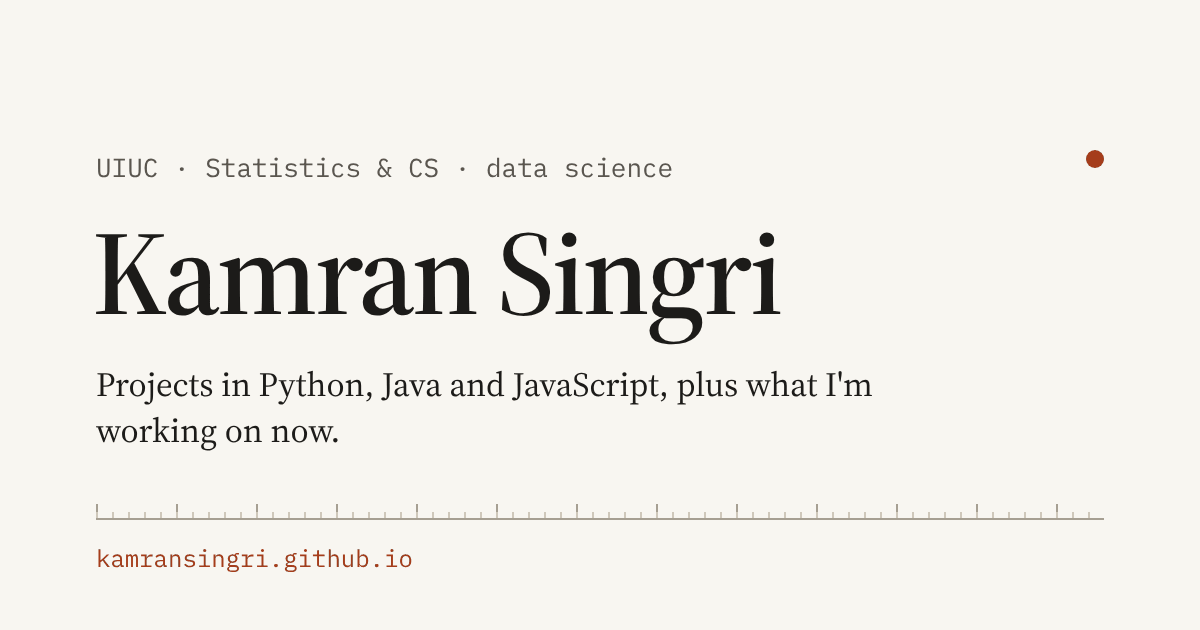
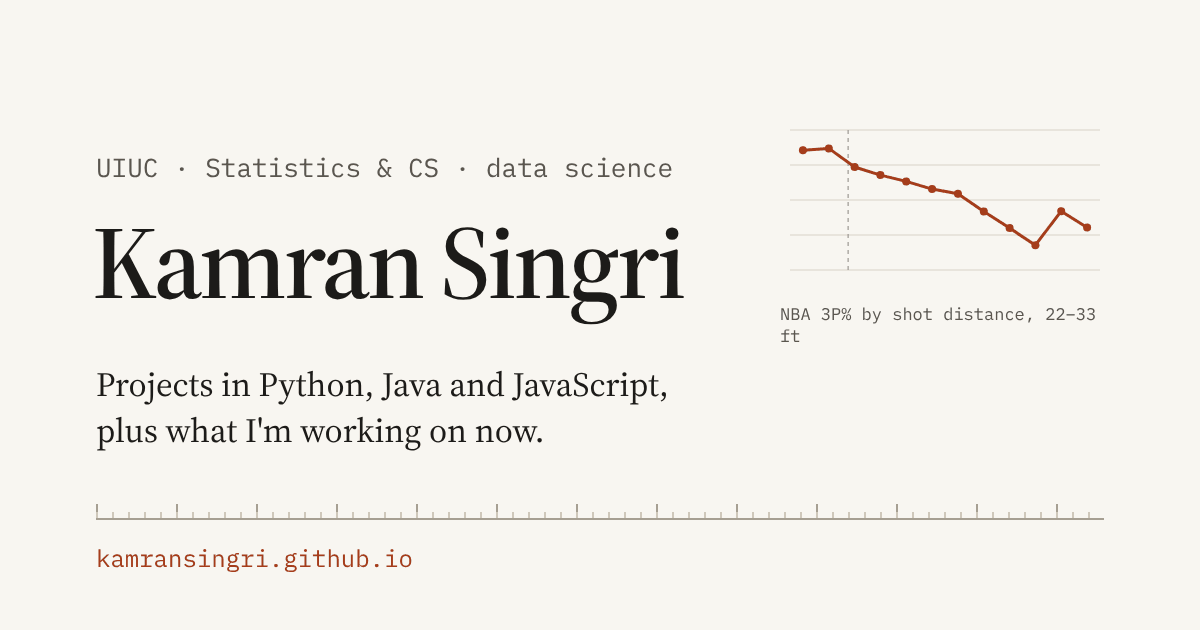
Polish 2: OG image with a sparkline drawn from the real NBA data
Claude-Session: https://claude.ai/code/session_01EJbYJCPg7MyVZ8EQyg9Bhm

diff --git a/tools/og.html b/tools/og.html
@@ -3,11 +3,11 @@
 @font-face{font-family:M;src:url(../assets/fonts/plex-mono-400.woff2)}
 html,body{margin:0}body{width:1200px;height:630px;background:#f8f6f1;color:#1c1b19;font-family:S;position:relative;overflow:hidden}
 .k{font-family:M;font-size:26px;color:#5b564e;position:absolute;left:96px;top:150px}
-h1{position:absolute;left:92px;top:190px;margin:0;font-size:120px;font-weight:600;letter-spacing:-3px}
-.l{position:absolute;left:96px;top:362px;font-size:34px;max-width:860px;line-height:1.35}
+h1{position:absolute;left:92px;top:190px;margin:0;font-size:104px;font-weight:600;letter-spacing:-3px}
+.l{position:absolute;left:96px;top:362px;font-size:34px;max-width:620px;line-height:1.35}
 .axis{position:absolute;left:96px;right:96px;bottom:110px;height:16px;
 background:linear-gradient(#a69f92,#a69f92) left bottom/100% 2px no-repeat,repeating-linear-gradient(to right,#cfc8bb 0 2px,transparent 2px 16px) left bottom/100% 8px no-repeat,repeating-linear-gradient(to right,#a69f92 0 2px,transparent 2px 80px) left bottom/100% 16px no-repeat}
 .u{position:absolute;left:96px;bottom:56px;font-family:M;font-size:24px;color:#a53d1b}
-.dot{position:absolute;width:18px;height:18px;border-radius:50%;background:#a53d1b;right:96px;top:150px}
-</style></head><body><div class="dot"></div><div class="k">UIUC · Statistics &amp; CS · data science</div><h1>Kamran Singri</h1>
+.chart{position:absolute;right:90px;top:120px;width:330px}.chart p{font-family:M;font-size:17px;color:#5b564e;margin:8px 0 0}
+</style></head><body><div class="chart"><svg class="spark" viewBox="0 0 330 170" width="330" height="170"><line x1="10" x2="320" y1="150.0" y2="150.0" stroke="#d8d2c7"/><line x1="10" x2="320" y1="115.0" y2="115.0" stroke="#d8d2c7"/><line x1="10" x2="320" y1="80.0" y2="80.0" stroke="#d8d2c7"/><line x1="10" x2="320" y1="45.0" y2="45.0" stroke="#d8d2c7"/><line x1="10" x2="320" y1="10.0" y2="10.0" stroke="#d8d2c7"/><line x1="68.1" x2="68.1" y1="10" y2="150" stroke="#8a8377" stroke-dasharray="4 4"/><path d="M22.9,30.3L48.8,28.4L74.6,47.0L100.4,55.1L126.2,61.4L152.1,69.1L177.9,73.8L203.8,91.5L229.6,108.1L255.4,125.2L281.2,91.2L307.1,107.5" fill="none" stroke="#a53d1b" stroke-width="3" stroke-linejoin="round"/><circle cx="22.9" cy="30.3" r="4" fill="#a53d1b"/><circle cx="48.8" cy="28.4" r="4" fill="#a53d1b"/><circle cx="74.6" cy="47.0" r="4" fill="#a53d1b"/><circle cx="100.4" cy="55.1" r="4" fill="#a53d1b"/><circle cx="126.2" cy="61.4" r="4" fill="#a53d1b"/><circle cx="152.1" cy="69.1" r="4" fill="#a53d1b"/><circle cx="177.9" cy="73.8" r="4" fill="#a53d1b"/><circle cx="203.8" cy="91.5" r="4" fill="#a53d1b"/><circle cx="229.6" cy="108.1" r="4" fill="#a53d1b"/><circle cx="255.4" cy="125.2" r="4" fill="#a53d1b"/><circle cx="281.2" cy="91.2" r="4" fill="#a53d1b"/><circle cx="307.1" cy="107.5" r="4" fill="#a53d1b"/></svg><p>NBA 3P% by shot distance, 22–33 ft</p></div><div class="k">UIUC · Statistics &amp; CS · data science</div><h1>Kamran Singri</h1>
 <div class="l">Projects in Python, Java and JavaScript, plus what I'm working on now.</div><div class="axis"></div><div class="u">kamransingri.github.io</div></body></html>
